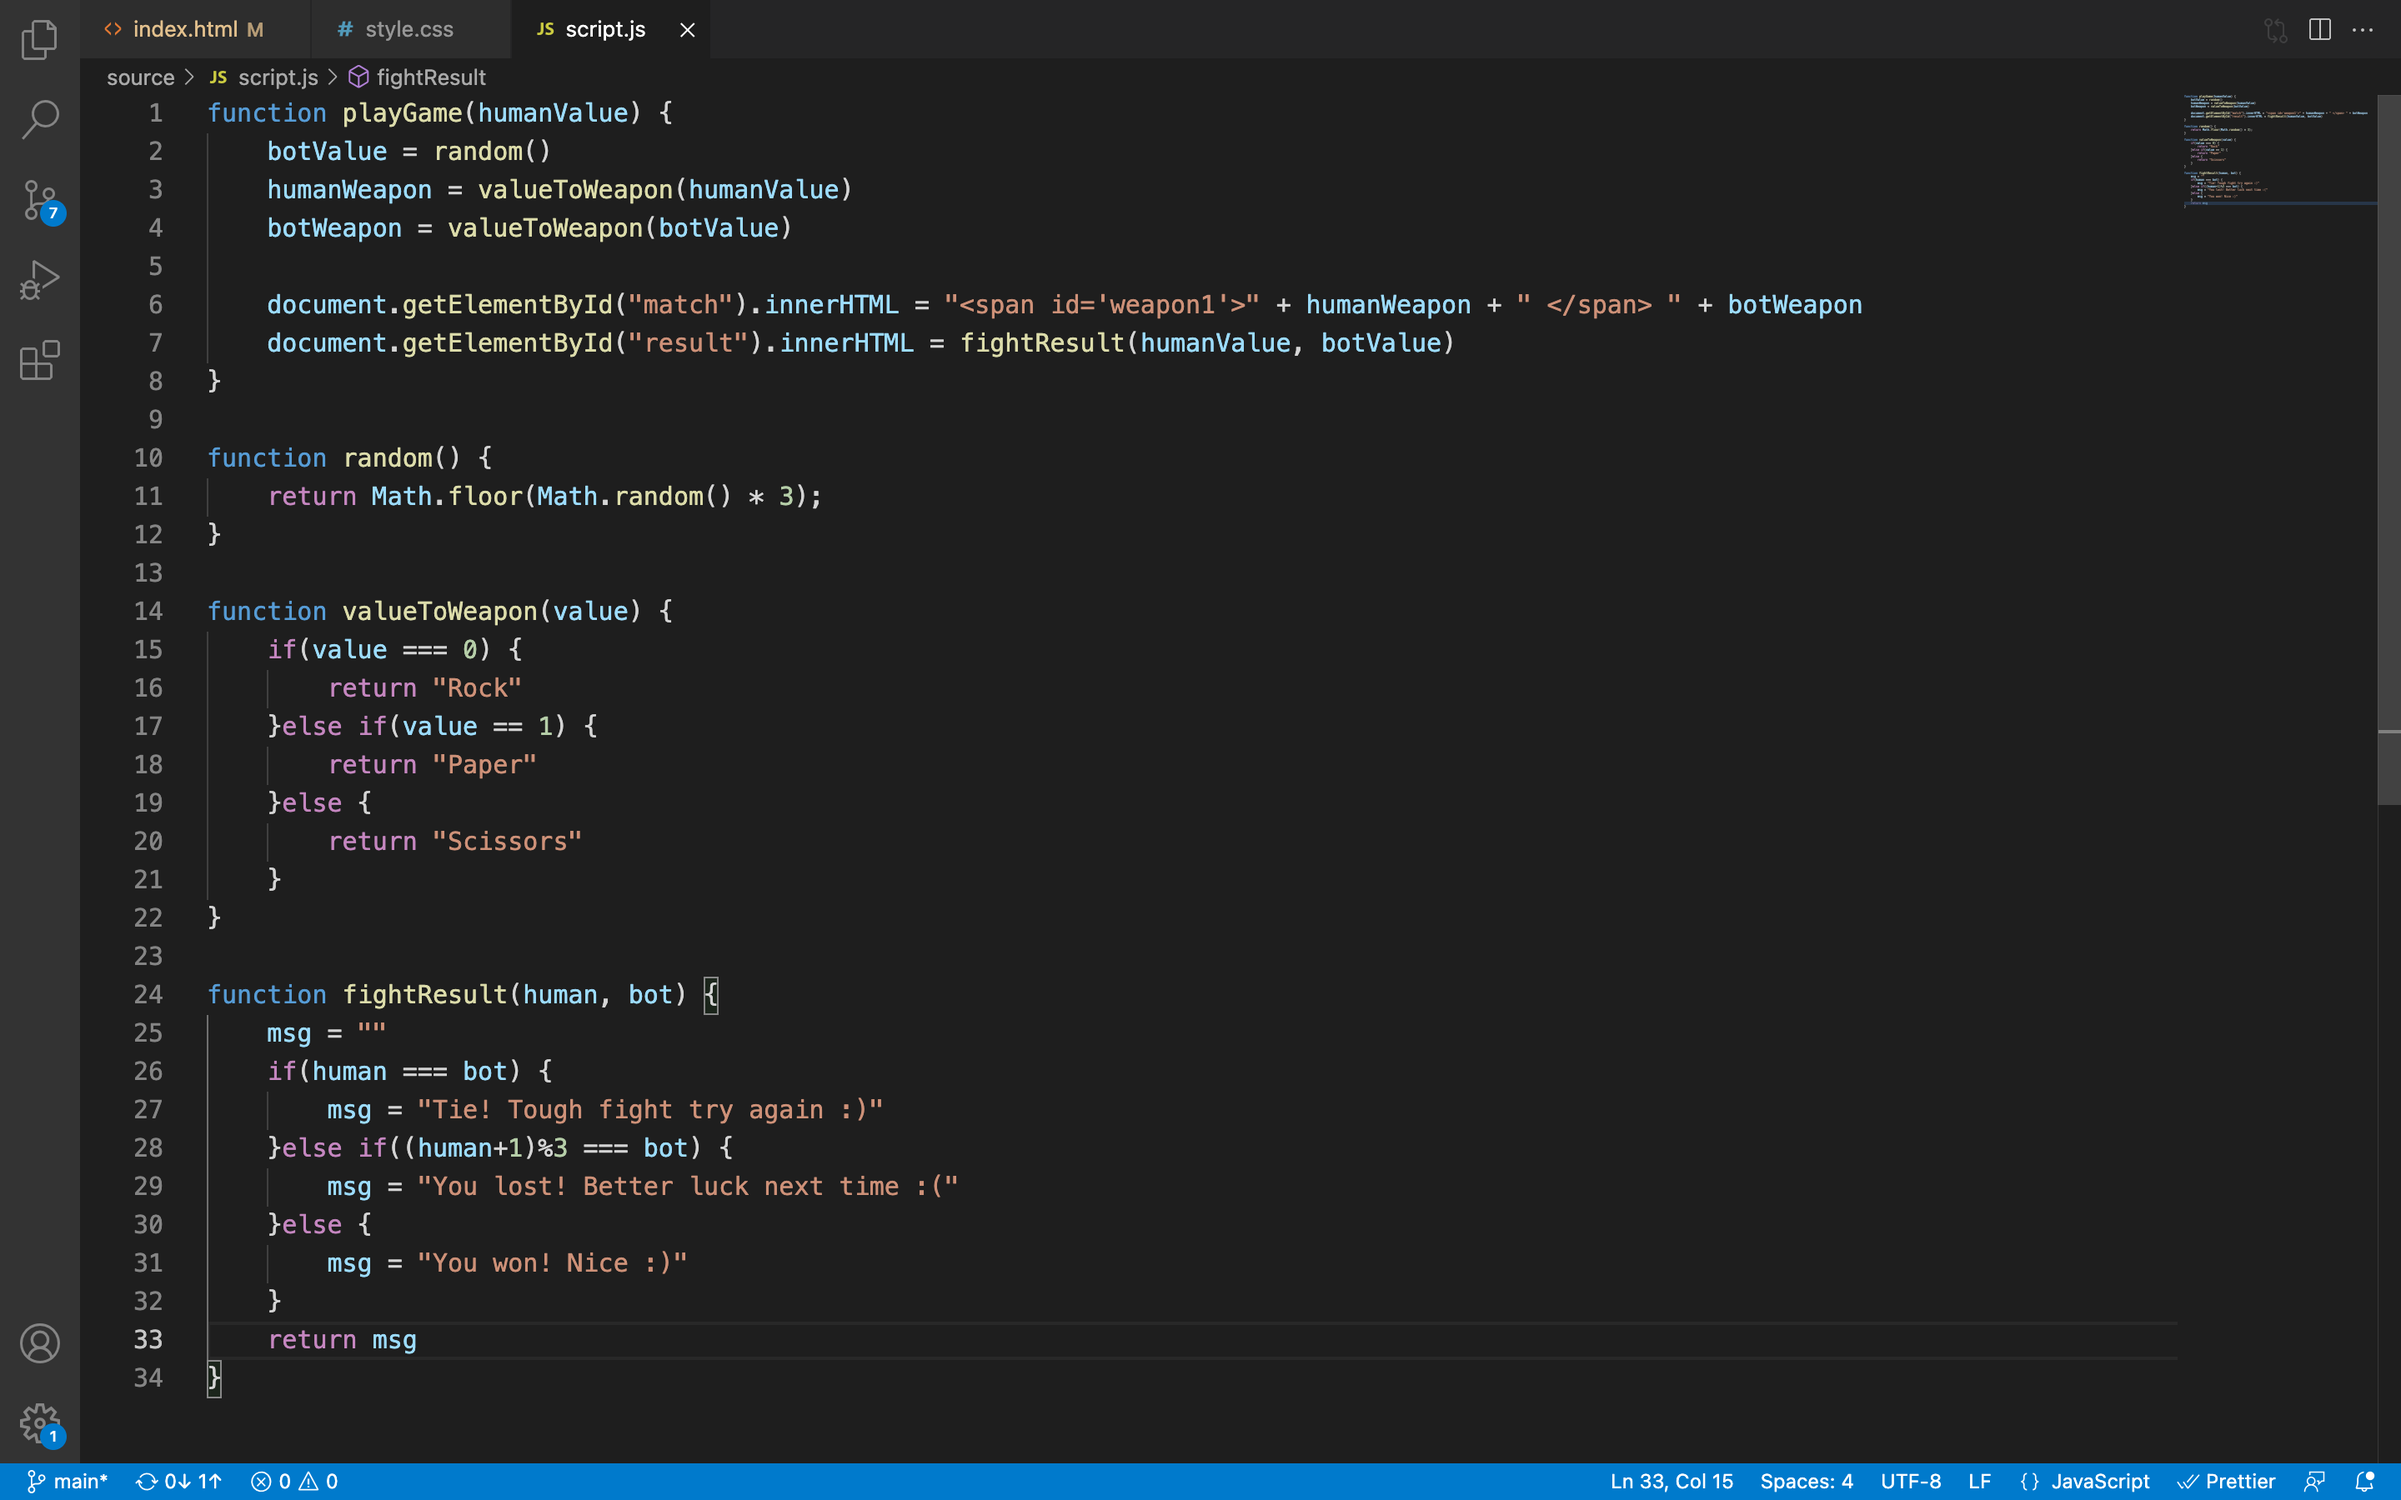
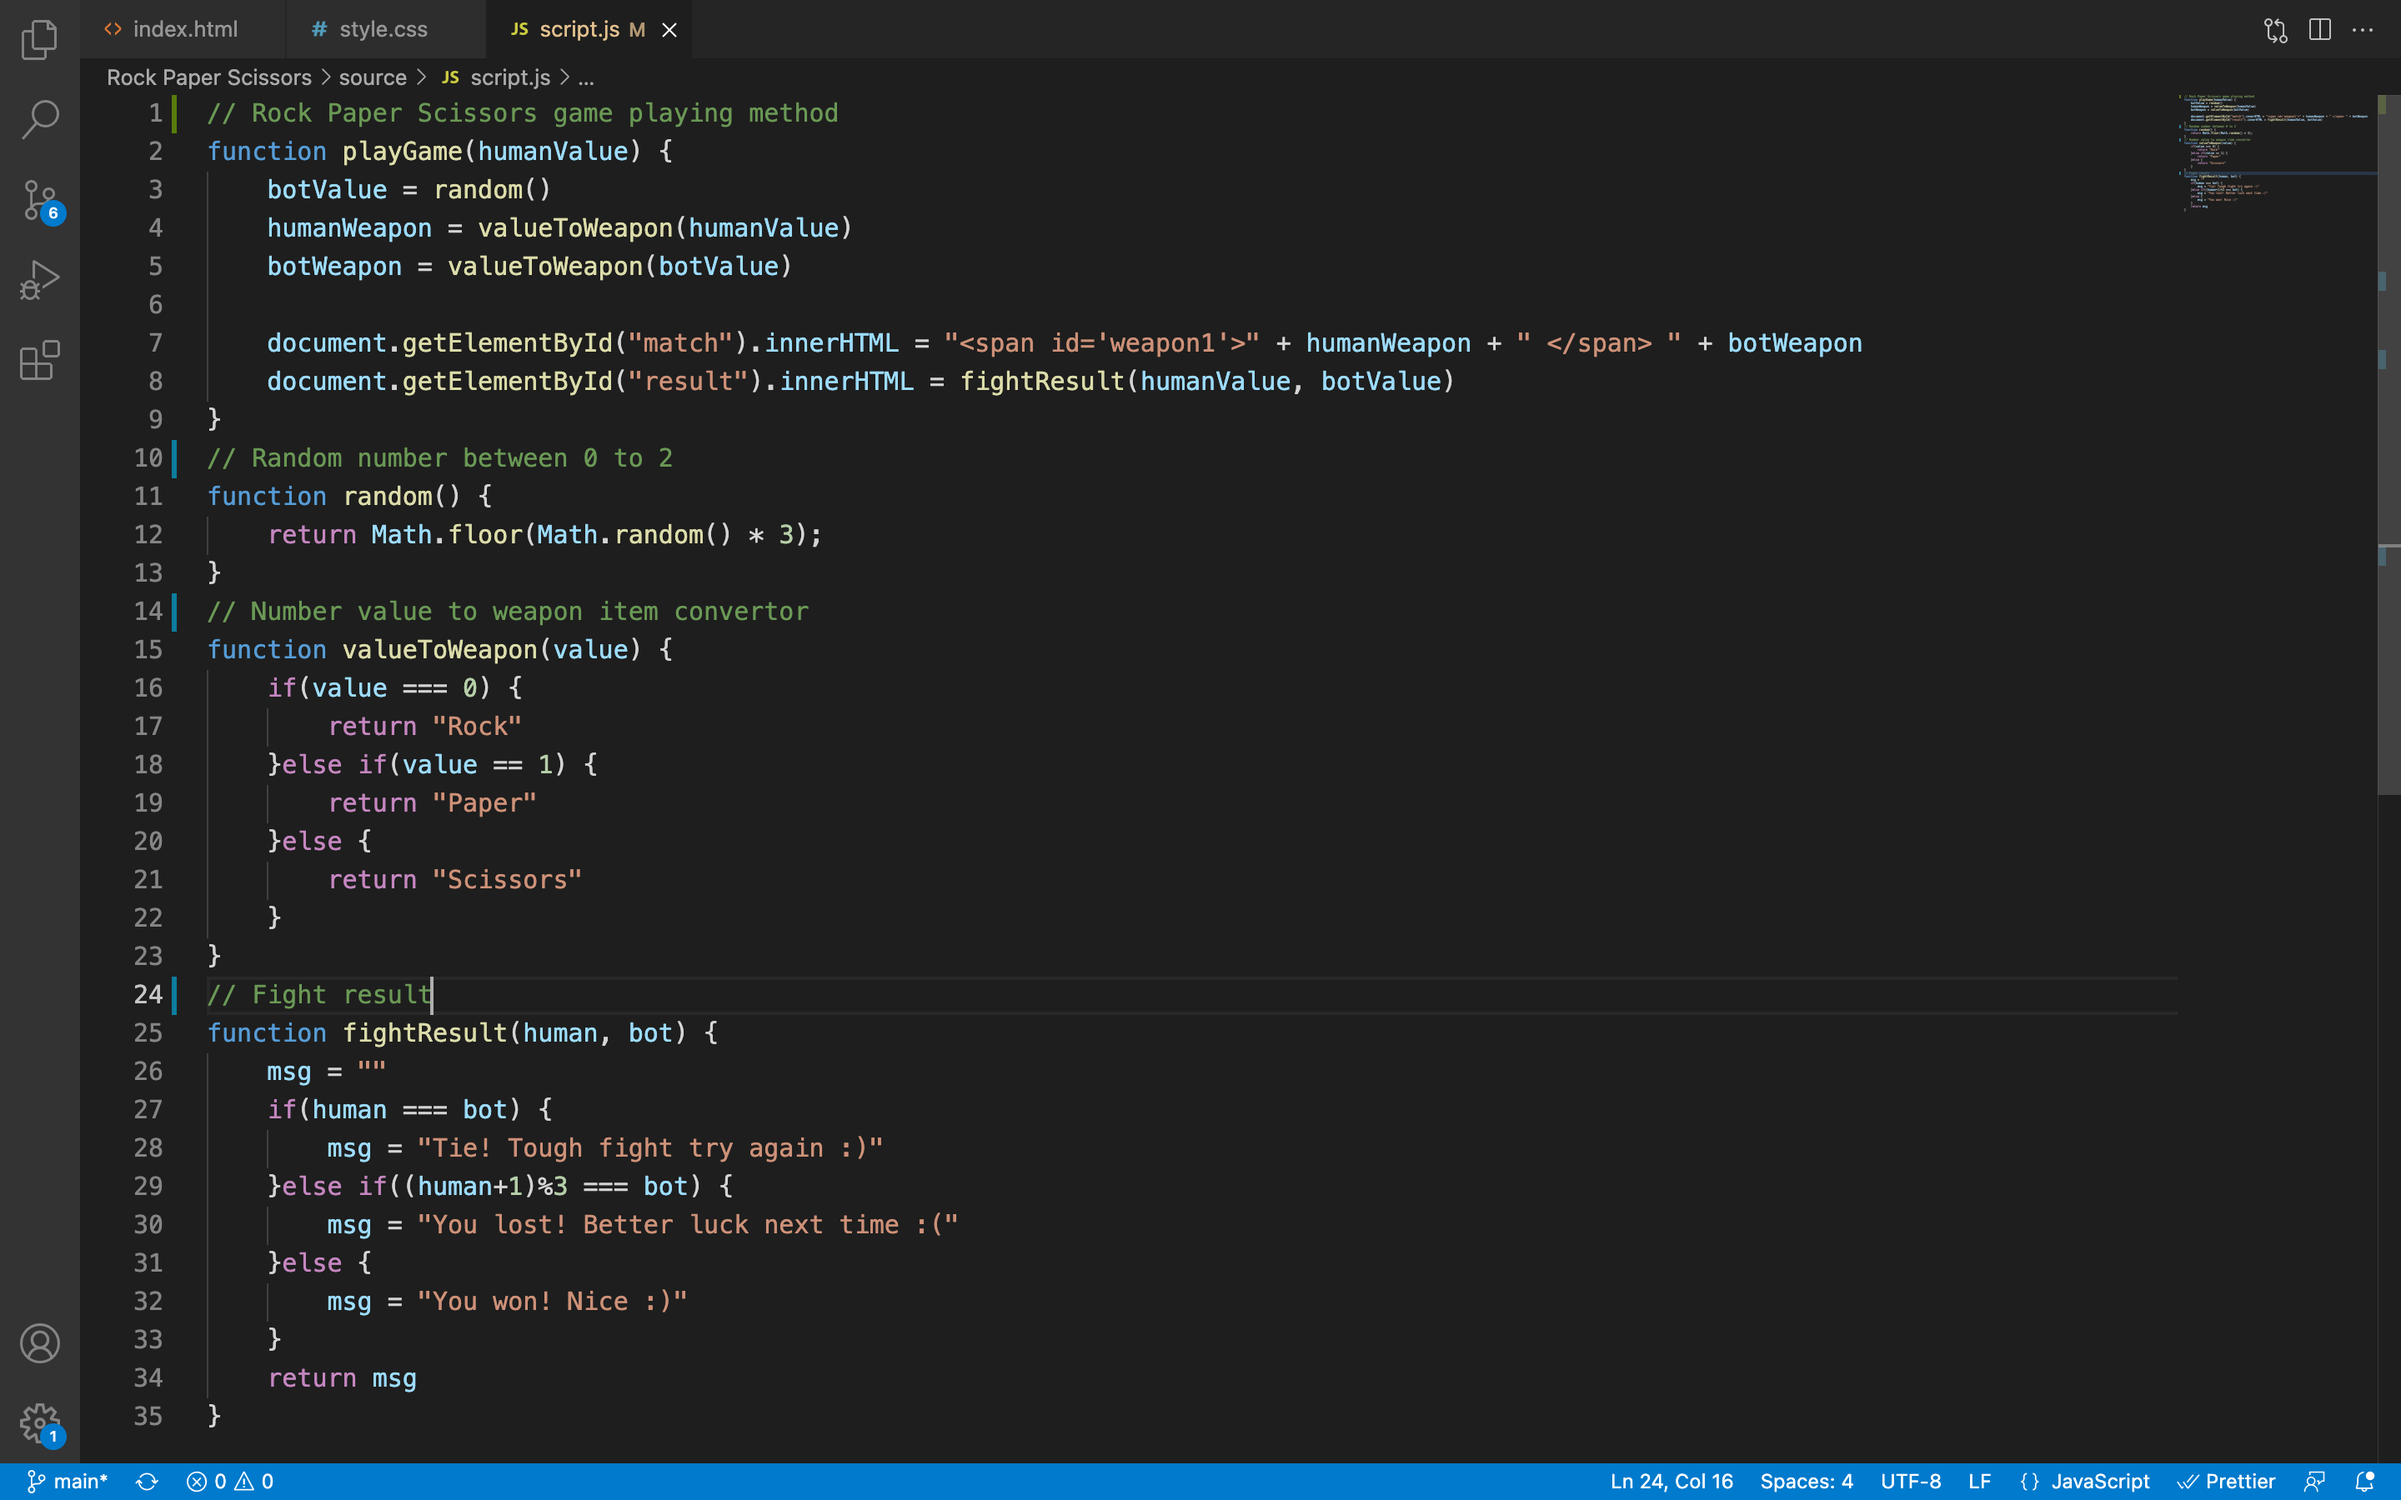
RWD

diff --git a/web/ICP3/RWD Task/input/input.html b/web/ICP3/RWD Task/input/input.html
@@ -13,45 +13,60 @@ TODO:
 <head>
     <title>RWD Task</title>
     <meta content="text/html; charset=windows-1252" http-equiv="Content-Type">
+    <link rel="stylesheet" href="https://stackpath.bootstrapcdn.com/bootstrap/4.2.1/css/bootstrap.min.css" integrity="sha384-GJzZqFGwb1QTTN6wy59ffF1BuGJpLSa9DkKMp0DgiMDm4iYMj70gZWKYbI706tWS" crossorigin="anonymous">
+    <link rel="stylesheet" href="../css/style.css">
 </head>
 <body>
-<div>
-    <div><img alt="PlaceHolderImage1" src="PlaceHolderImages/100x100"></div>
-    <div>
-        <h1>Your Name</h1>
-        <h3>Designation</h3>
+<!-- A base container is added to form bootstrap grid structure  -->
+<div class="container">
+<!-- Row div in grid -->
+<div class="row">
+    <!-- Column div in grid -->
+    <div class="col-md-8">
+        <img alt="profile" src="../SampleImages/bean.jpg" height="100px" width="100px"></div>
+    <div class="col-md-4">
+        <h1 class ="name">STEVE SMITH</h1>
+        <h3 class = "designation">FRONT-END DEVELOPER</h3>
     </div>
 </div>
-<div>
-    <img alt="PlaceHolderImage2" src="PlaceHolderImages/1140x350">
-</div>
-<div>
-    <h2>Featured Work </h2>
-</div>
-<div>
-    <div>
-        <img alt="PlaceHolderImage3" src="PlaceHolderImages/555x300">
-        <h3>App1</h3>
-        <p><a href="#">Link to project</a></p>
-    </div>
-    <div>
-        <img alt="PlaceHolderImage3" src="PlaceHolderImages/555x300">
-        <h3>App2</h3>
-        <p><a href="#">Link to project</a></p>
+<div class="row">
+    <div class="col-md-12">
+        <hr/>
     </div>
 </div>
-<div>
-    <div>
-        <img alt="PlaceHolderImage3" src="PlaceHolderImages/555x300">
-        <h3>App3</h3>
-        <p><a href="#">Link to project</a></p>
-    </div>
-    <div>
-        <img alt="PlaceHolderImage3" src="PlaceHolderImages/555x300">
-        <h3>App4</h3>
-        <p><a href="#">Link to project</a></p>
+<div class="row">
+    <div class="col-md-12">
+        <!-- Height and width are set for images -->
+       <img alt="wallImage" src="../SampleImages/Image.png" height="350px" width="1140px">
     </div>
 </div>
+<div class="row">
+    <div class="col-md-12">
+       <h2 class = "featuredwork">Featured Work </h2>
+    </div>
+</div>
+<div class="row">
+    <div class="col-md-4">
+        <img alt="app1" src="../SampleImages/app1.png" class ="appimage">
+        <h3 class="appname">APPIFY</h3>
+        <p class = link><a href="https://github.com/kvxc5/Appify/" class ="linkc">https://github.com/kvxc5/Appify/</a></p>
+    </div>
+    <div class="col-md-4">
+        <img alt="app2" src="../SampleImages/app2.png" class = "appimage">
+        <h3 class="appname">SUNFLOWER</h3>
+        <p class = "link"><a href="https://github.com/kvxc5/Sunflower/" class = "linkc">https://github.com/kvxc5/Sunflower/</a></p>
+    </div>
+    <div class="col-md-4">
+        <img alt="app3" src="../SampleImages/app3.png" class = "appimage ">
+        <h3 class="appname">BOKEH</h3>
+        <p class = "link"><a href="https://github.com/kvxc5/Bokeh/" class = "linkc">https://github.com/kvxc5/Bokeh/</a></p>
+    </div>
+</div>
+
+</div>
+<script src="https://code.jquery.com/jquery-3.3.1.slim.min.js" integrity="sha384-q8i/X+965DzO0rT7abK41JStQIAqVgRVzpbzo5smXKp4YfRvH+8abtTE1Pi6jizo" crossorigin="anonymous"></script>
+<script src="https://cdnjs.cloudflare.com/ajax/libs/popper.js/1.14.6/umd/popper.min.js" integrity="sha384-wHAiFfRlMFy6i5SRaxvfOCifBUQy1xHdJ/yoi7FRNXMRBu5WHdZYu1hA6ZOblgut" crossorigin="anonymous"></script>
+<script src="https://stackpath.bootstrapcdn.com/bootstrap/4.2.1/js/bootstrap.min.js" integrity="sha384-B0UglyR+jN6CkvvICOB2joaf5I4l3gm9GU6Hc1og6Ls7i6U/mkkaduKaBhlAXv9k" crossorigin="anonymous"></script>
 
 
 </body>

diff --git a/web/ICP3/Rock Paper Scissors/source/script.js b/web/ICP3/Rock Paper Scissors/source/script.js
@@ -1,3 +1,4 @@
+// Rock Paper Scissors game playing method
 function playGame(humanValue) {
     botValue = random()
     humanWeapon = valueToWeapon(humanValue)
@@ -6,11 +7,11 @@ function playGame(humanValue) {
     document.getElementById("match").innerHTML = "<span id='weapon1'>" + humanWeapon + " </span> " + botWeapon
     document.getElementById("result").innerHTML = fightResult(humanValue, botValue)
 }
-
+// Random number between 0 to 2
 function random() {
     return Math.floor(Math.random() * 3);
 }
-
+// Number value to weapon item convertor
 function valueToWeapon(value) {
     if(value === 0) {
         return "Rock"
@@ -20,7 +21,7 @@ function valueToWeapon(value) {
         return "Scissors"
     }
 }
-
+// Fight result
 function fightResult(human, bot) {
     msg = ""
     if(human === bot) {

diff --git a/web/ICP3/RWD Task/css/style.css b/web/ICP3/RWD Task/css/style.css
@@ -1,0 +1,34 @@
+.name {
+  color: #747704;
+  font-display: Rambla;
+  font-size: 350%;
+  text-align: right;
+}
+.designation {
+  color: #bcbbbb;
+  font-size: 120%;
+  text-align: right;
+}
+.featuredwork {
+  color: #bcbbbb;
+  font-size: xx-large;
+  text-align: left;
+}
+.appname {
+  text-align: center;
+  color: #747704;
+}
+.appimage {
+  height: 150px;
+  width: 300px;
+  display: block;
+  margin-left: auto;
+  margin-right: auto;
+}
+.link {
+  text-align: center;
+  color: #bcbbbb;
+}
+.linkc {
+  color: #bcbbbb;
+}
